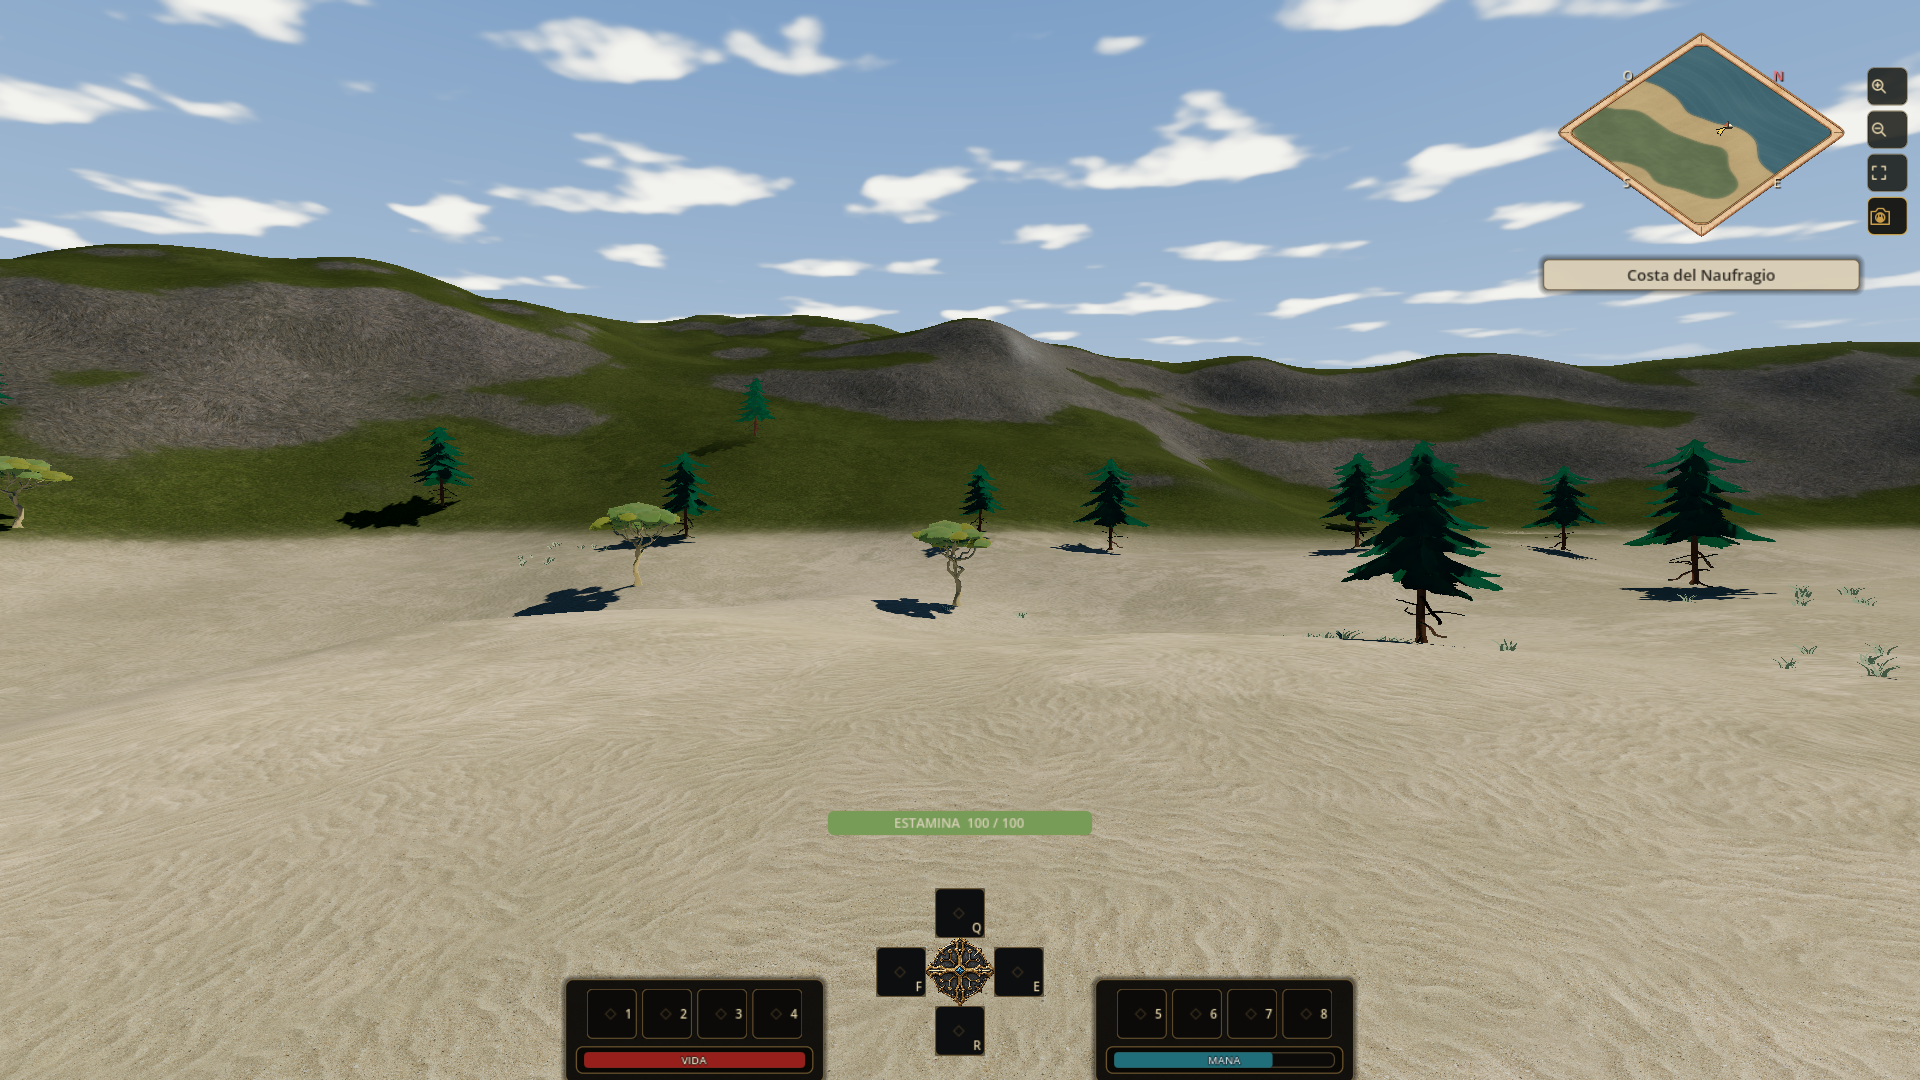
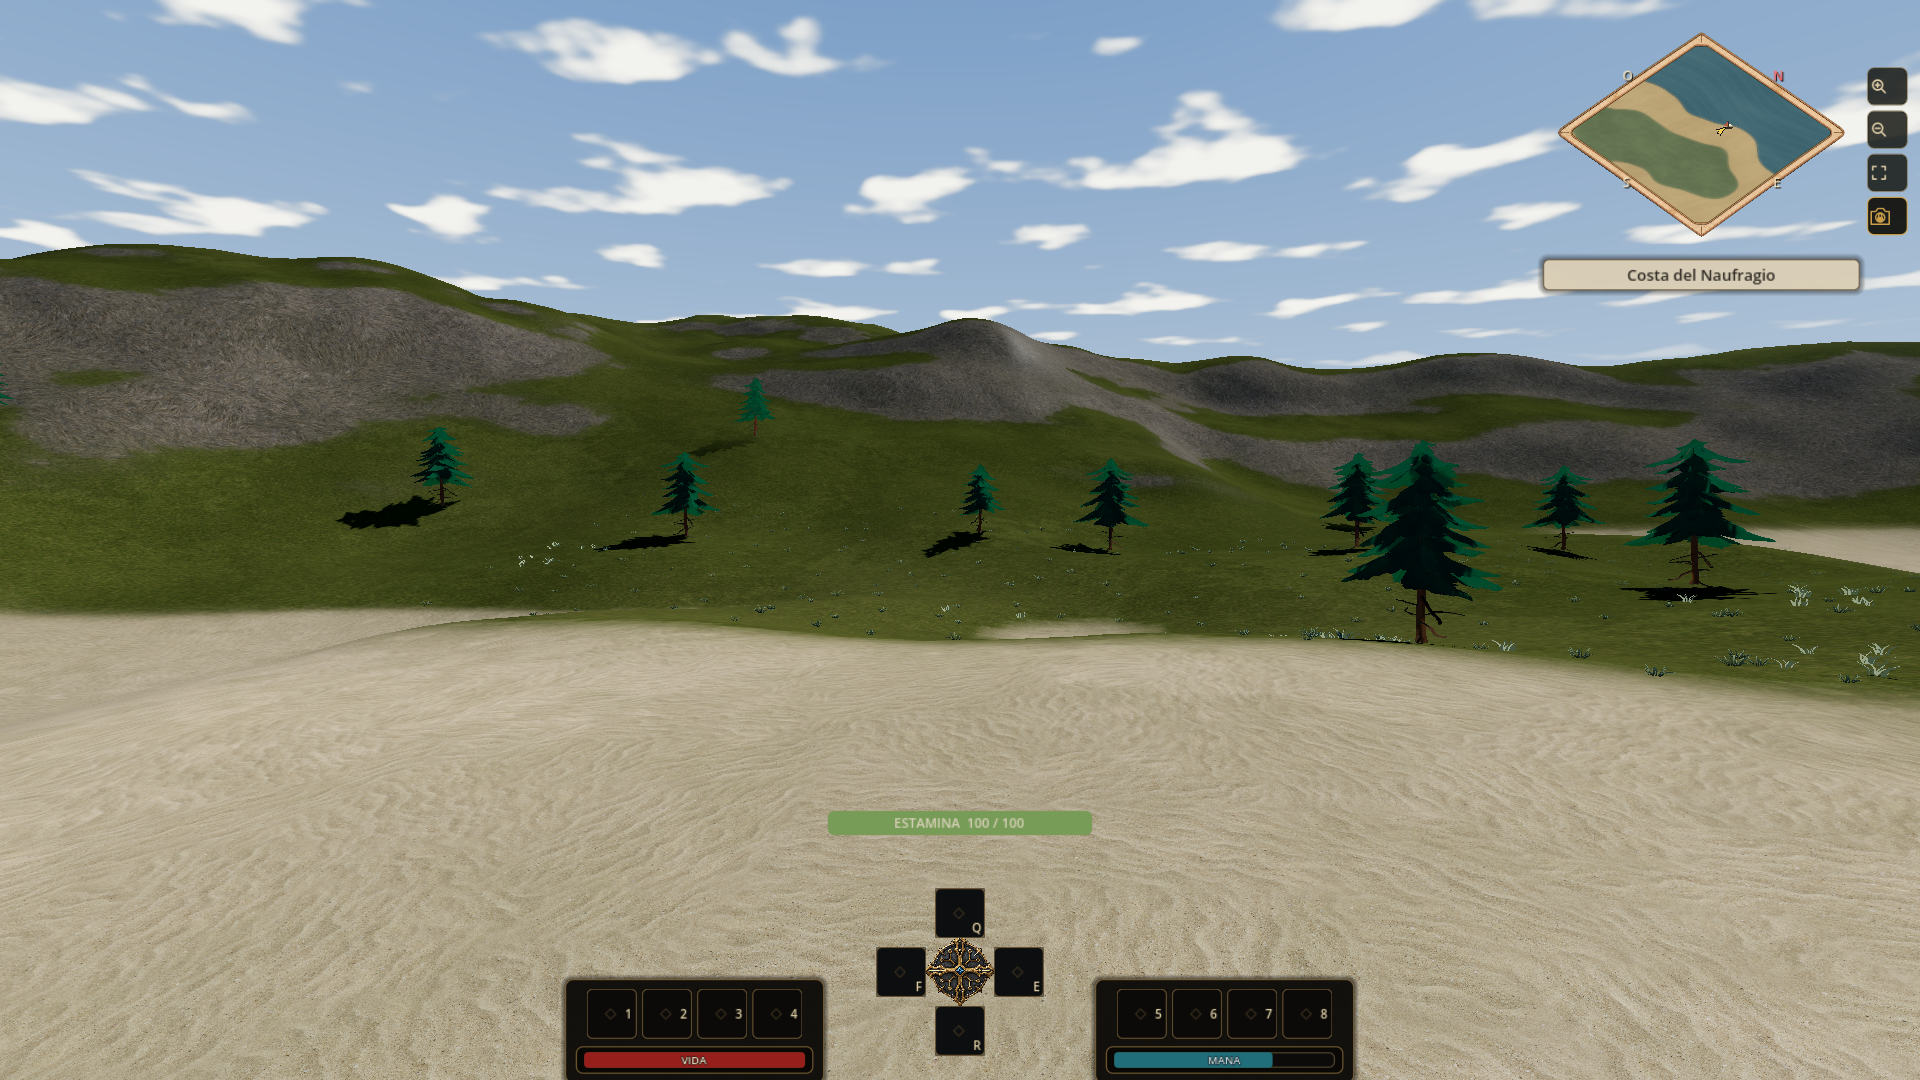
Keep coastal pines on a connected grass edge
Remove the three acacias from this biome while retaining pine transforms and resource IDs. Extend the grass toward the beach and verify grass under every pine, harvesting, workspace reload and gameplay reentry.

Changed region(s): [[0.0, 0.4278, 1.0, 0.6722]]

diff --git a/jueguito/docs/design/tutorial_coast_v2.md b/jueguito/docs/design/tutorial_coast_v2.md
@@ -2,7 +2,11 @@
 
 La playa mantiene despejada la aparición y el paso hacia el barco. Detrás hay dunas con vegetación baja, grupos pequeños de árboles y laderas con una transición gradual entre suelo, pasto y roca. El objetivo es una costa templada legible y transitable, todavía con los modelos de prueba existentes.
 
-Se colocaron 14 árboles talables de las variantes `pine_tall_01` y `acacia_01`, con altura de 4.5–7.5 m, además de 20 piedras y 62 grupos de pasto de duna. El primero está unos 32 m hacia el interior desde la aparición, en `(270, 240)` del sector `(27, 30)`. Cada árbol tiene ID de recurso propio, tronco con colisión y conserva el sistema de tala, madera, tocón y reaparición.
+La costa conserva 11 pinos talables `pine_tall_01`, con altura de 5.4–7.5 m, además de 20 piedras y 62 grupos de pasto de duna. Las tres acacias se retiraron porque corresponden a otro bioma. El primero está unos 32 m hacia el interior desde la aparición, en `(270, 240)` del sector `(27, 30)`. Cada pino tiene ID de recurso propio, tronco con colisión y conserva el sistema de tala, madera, tocón y reaparición.
+
+### Ajuste de borde forestal v3
+
+Los once pinos mantienen exactamente sus transformaciones e IDs. El pasto se extendió hacia la playa con un borde continuo e irregular que conecta los troncos con la cobertura del interior; se evita crear círculos verdes aislados bajo cada árbol. La franja baja junto al mar y la aparición siguen siendo arena. La prueba verifica que la textura dominante bajo cada pino sea pasto (slot 2), además de comprobar suelo seco y tala. Hay copia local del terreno anterior en `data/terrain3d_edit_backups/coast_pines_v3_before/`.
 
 Para probar: abrir inventario con `I`, hacer clic en **Hacha de leñador** para equiparla, acercarse y hacer clic en un árbol. La tala dura siete segundos; el pino entrega cuatro unidades de madera. Los inventarios iniciales ya incluyen un hacha.
 
@@ -24,7 +28,7 @@ La prueba reprodujo una pérdida de la lista de texturas al liberar el Terrain3D
 
 ## Verificación
 
-`tutorial_coast_playtest.tscn` verifica 14 árboles en suelo seco, IDs únicos, reconocimiento del hacha, animación, recompensa de madera y tocón. Después libera el mundo y carga el workspace en el mismo proceso, verificando los 25 slots y la ausencia del damero. Se capturó con D3D12 en la RTX 3050. Las pruebas de salto/cámara, agua, HUD y materiales también pasan con la nueva pintura.
+`tutorial_coast_playtest.tscn` verifica once pinos sobre pasto y suelo seco, IDs únicos, reconocimiento del hacha, animación, recompensa de madera y tocón. Después libera el mundo y carga el workspace en el mismo proceso, verificando los 25 slots y la ausencia del damero. Se capturó con D3D12 en la RTX 3050. Las pruebas de salto/cámara, agua, HUD y materiales también pasan con la nueva pintura.
 
 Las capturas están en `art/environment/material_audit_v1/`, en la raíz: `costa_con_arboles_v1.png`, `tala_en_costa_v1.png` y `workspace_costa_v1.png`. La captura del workspace oculta sus guías sólo para inspeccionar el terreno; en el editor siguen disponibles.
 

diff --git a/jueguito/README.md b/jueguito/README.md
@@ -139,7 +139,7 @@ Terrain3D soporta pintura de texturas, colores, roughness/wetness, agujeros y fo
 
 ## Texturas de terreno
 
-La revisión actual usa diez bases naturales en **25 slots**, con nieve en `24`, ceniza en `15` y pasto sombrío en `6`/`23`. Los materiales anteriores siguen en el banco original. Detalles, crítica completa y límites: `docs/design/materiales_entorno_v1.md`. El sector del naufragio tiene una pasada de superficies más suave, vegetación baja y 14 árboles talables; ver `docs/design/tutorial_coast_v2.md`.
+La revisión actual usa diez bases naturales en **25 slots**, con nieve en `24`, ceniza en `15` y pasto sombrío en `6`/`23`. Los materiales anteriores siguen en el banco original. Detalles, crítica completa y límites: `docs/design/materiales_entorno_v1.md`. El sector del naufragio tiene una pasada de superficies más suave, vegetación baja y 11 pinos talables sobre pasto; ver `docs/design/tutorial_coast_v2.md`.
 
 La idea correcta no es que cada bioma sea una sola textura. Un sector puede ser templado, pero tener pasto en planicies, roca en laderas fuertes, arena en playas y nieve en cumbres. Por eso conviene separar:
 
